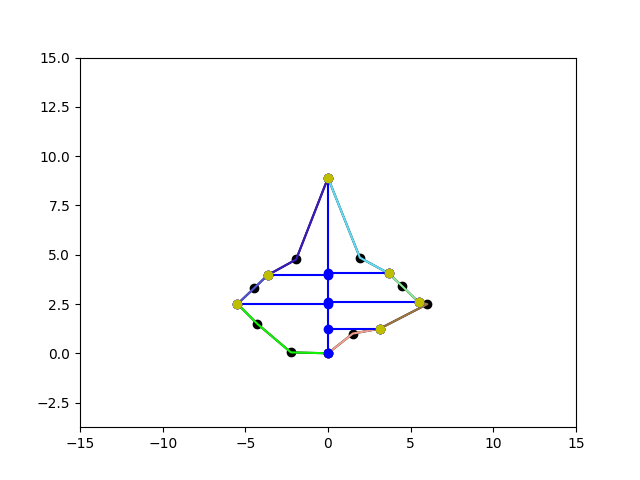
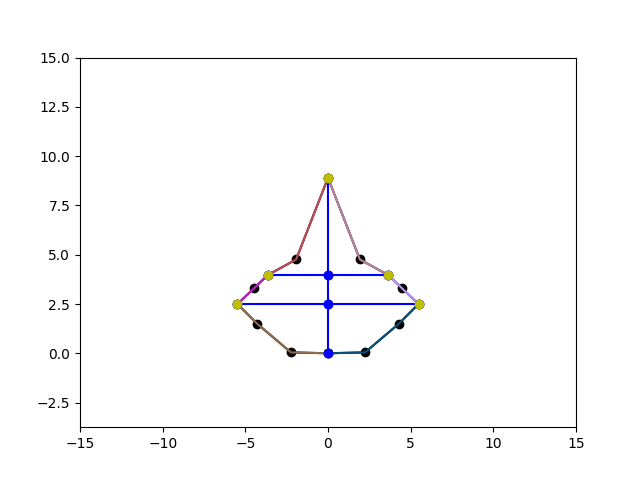
fixed margin expansion bug for segmential growth

diff --git a/Prototype1/growth.py b/Prototype1/growth.py
@@ -40,7 +40,7 @@ def bounding_distances(list_of_pts, left_pt, right_pt):
     for point in list_of_pts:
         pos.append(point.pos)
     # calculate distances to left
-    # print(f"pos: {pos}, left_pt.pos {[left_pt.pos]}")
+    print(f"pos: {pos}, left_pt.pos {[left_pt.pos]}")
     euc_res_left = euclidean_distances(pos, [left_pt.pos])
     # calculate distances to right
     euc_res_right = euclidean_distances(pos, [right_pt.pos])
@@ -76,11 +76,16 @@ def init_cp_indicators(leaf, interpolation):
     # check if points need to be interpolated
     if len(cp_index) > 1:
         prev_i = 0
-        # interpolate for the 0 index (separate due to special case index slicing)
+        # interpolate for the first and last index (separate due to special case index slicing)
         if cp_index[0] == 1:
             interpolate_pts(leaf.margin.points[0], leaf.margin.points[1], leaf, True, interpolation)
             cp_indicators, cp_index = leaf.margin.get_cp_indicators()
             print(f"cp_indicators:  {cp_indicators}, cp_index: {cp_index}")
+        if cp_index[-1] == (len(leaf.margin.points) - 1):
+            interpolate_pts(leaf.margin.points[cp_index[-1]], leaf.margin.points[0], leaf, True, interpolation)
+            cp_indicators, cp_index = leaf.margin.get_cp_indicators()
+            print(f"cp_indicators:  {cp_indicators}, cp_index: {cp_index}")
+
         # interpolate if there are no points between cp
         for i in range(1, len(cp_index)):
             if (cp_index[i] - cp_index[prev_i]) <= 1:
@@ -107,13 +112,64 @@ def calculate_gr(dist, dir, gr, cp_th):
     """multiply direction * gr * distance and
     normalize this to half the max distance."""
 
-    # TODO ! improve fit?
+    # TODO ! improve fit, division by 0 not possible
     old_range = [-cp_th, cp_th]
     fit_range = [-cp_th/2, cp_th/2]
 
     temp_growth = (gr * normalize_to_range(dir, old_range, fit_range)) / dist
     # print(f"dist { dist} temp_growth: {temp_growth}")
     return temp_growth
+
+def expand_vein_segments(leaf, gr, interpolation, cp_th):
+    """Expand the cp on margin in the direction of their veins
+    by a growth rate (gr)"""
+
+    # initialize growth and interpolate margin where necessary
+    print(f"before len {len(leaf.margin.points)}")
+    cp_indicators, cp_index = init_cp_indicators(leaf, interpolation)
+    print(f"after len {len(leaf.margin.points)}")
+
+    segments, slices = leaf.define_segments()
+    gr_total = np.zeros((len(leaf.margin.points), 2))
+    prev_vein_dir = -1 * normalize_vec(leaf.primordium_vein.get_vector())
+
+    # calculate growth rate for each segment
+    for s in range(0, len(segments)):
+
+        # only feed positions left and right of cp to the distance function
+        print(f"slices: {slices[s]}/{len(leaf.margin.points)}")
+        prev_cp = segments[s][0]
+        next_cp = segments[s][-1]
+        print(f"prev_cp: {prev_cp}")
+        print(f"next_cp: {next_cp}")
+
+        prev_dist, next_dist = bounding_distances(segments[s][1:-1], prev_cp, next_cp)
+
+        # get new growth dir
+        if slices[s][1] != 0:
+            next_vein = next_cp.vein_assoc[-1]
+            next_vein_dir = normalize_vec(next_vein.get_vector())
+        else:
+            next_vein_dir = -1 * normalize_vec(leaf.primordium_vein.get_vector())
+
+        # add to array of gr values
+        temp_prev = calculate_gr(prev_dist, prev_vein_dir, gr, cp_th)
+        temp_next = calculate_gr(next_dist, next_vein_dir, gr, cp_th)
+        if slices[s][1] != 0:
+            # add cp growth rates
+            gr_total[(slices[s][1])-1] = np.multiply(next_vein_dir, gr)
+            # add non cp growth rates
+            print(f"temp_next = {temp_next}")
+            print(f"prev_next = {temp_next}")
+            print(f"gr_total = {gr_total}")
+            gr_total[(slices[s][0]+1):(slices[s][1]-1)] = temp_next + temp_prev
+        else:
+            gr_total[(slices[s][0]+1):] = temp_next + temp_prev
+            leaf.margin.grow(gr_total)
+            return leaf
+        prev_vein_dir = next_vein_dir
+    return 1
+
 
 
 def expand_veins(leaf, gr, interpolation, cp_th):

diff --git a/Prototype1/leafstructure.py b/Prototype1/leafstructure.py
@@ -181,6 +181,7 @@ class Leaf:
         """Defines segments as a collection of margin segments
         with their bounding veins."""
         segments = []
+        slices = []
         cp_indicators, cp_index = self.margin.get_cp_indicators()
         prev_i = 0
         for i in range(0, len(cp_index)+1):
@@ -188,11 +189,14 @@ class Leaf:
                 end_segment = self.margin.points[prev_i:]
                 end_segment.append(self.margin.points[0])
                 segments.append(end_segment)
+                slices.append([prev_i, 0])
             else:
                 segments.append(self.margin.points[prev_i:cp_index[i]+1])
+                slices.append([prev_i, cp_index[i]+1])
                 prev_i = cp_index[i]
+
         if len(segments) == (len(cp_index) + 1):
-            return segments
+            return segments, slices
         else:
             return 1
 
@@ -201,7 +205,7 @@ class Leaf:
         with their bounding veins."""
         segments_x = []
         segments_y = []
-        segments = self.define_segments()
+        segments, _ = self.define_segments()
         for segment in segments:
             pts_x = []
             pts_y = []

diff --git a/Prototype1/visualization.py b/Prototype1/visualization.py
@@ -49,9 +49,9 @@ def plot_leaf_segments(leaf, dim, path, name, step):  # base_point, all_veins, m
 
     # plot margin segments
     segments_x, segments_y = leaf.define_segments_pos()
-    print(f"total len: {len(leaf.margin.points)}, nr of seg: {len(segments_x)}")
+    # print(f"total len: {len(leaf.margin.points)}, nr of seg: {len(segments_x)}")
     for i in range(0, len(segments_x)):
-        print(f"part len: {len(segments_x[i])}")
+        # print(f"part len: {len(segments_x[i])}")
         plt.plot(segments_x[i], segments_y[i], color=np.random.rand(3,))
 
     # plot veins

diff --git a/Prototype1/Main.py b/Prototype1/Main.py
@@ -17,7 +17,7 @@ def main():
     vis.plot_leaf(leaf, 15, LEAF_PATH, BASE_NAME, 0)
     for i in range(STEPS):
         # growstep driven by expansion of veins
-        expand_veins(leaf, GR, INTERPOLATION, CP_TH)
+        expand_vein_segments(leaf, GR, INTERPOLATION, CP_TH)
         # modification of morphogen distribution
 
         # new convergence points & possible new morphogen distribution
